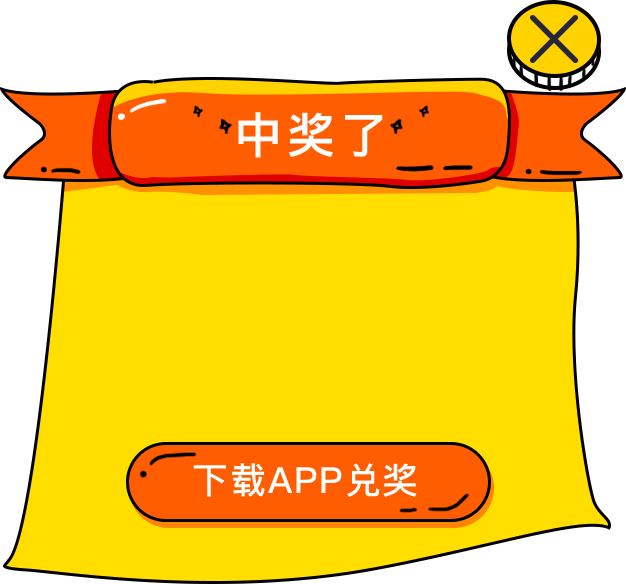
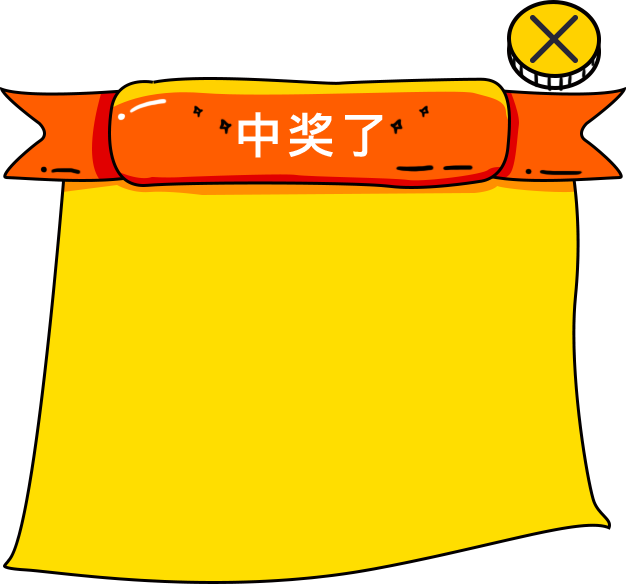
文案变更、按钮根据来源展示、title、字体设置

Changed region(s): [[0.1821, 0.7397, 0.7891, 0.9247]]

diff --git a/assets/activity/lechun/lottery.html b/assets/activity/lechun/lottery.html
@@ -3,7 +3,7 @@
 <head>
   <meta charset="UTF-8">
   <meta name="viewport" content="width=device-width,user-scalable=no">
-  <title></title>
+  <title>亚程旅游任性送</title>
   <link rel="stylesheet" href="./less/lottery.css">
 </head>
 <body module-css-reset module-css-base>
@@ -13,7 +13,7 @@
   <p class="tips">恭喜你！<br>获得：&nbsp;<span class="prize_tips"></span></p>
   <p class="code">兑奖码：&nbsp;<span class="prize_code"></span></p>
   <p class="tips2">请牢记兑奖码才能成功领取奖品哦！</p>
-  <button class="download"></button>
+  <div class="download"></div>
 </div>
 <img class="background" src="./img/background.jpg" alt="">
 <div class="button_area">
@@ -46,17 +46,18 @@
   </div>
 </div>
 <div id="activityRule" class="activity_rule">
-  <p>活动区域：全国</p>
-  <p>活动时间：2016.08.08－ 2016.08.11</p>
-  <p>领取方法：点击老虎机游戏按钮，摇中滚动中的图标，记录下中奖后生成的领取码。然后下载亚程旅游APP，打开APP在弹出的自动提示窗口中输入领取人信息和验证码。</p>
-  <p>兑奖方式：小亚毛绒玩具、乐纯整箱酸奶将以快递的方式寄出；乐纯酸奶礼包券领取后可在“乐纯的伙伴们”酸奶微信公众号购买时直接使用。</p>
-  <p>关注微信公共平台：亚程旅游 ID：atrip</p>
-  <p>小亚客服微信ID：yanfei</p>
-  <p>温馨提示：</p>
-  <p>1、如果您半个小时内未提交领取信息，将视为自动放弃本次领取资格。</p>
-  <p>2、同一部手机和手机号码只能领取一份奖品。</p>
-  <p>3、本活动结束后7个工作日内，将陆续安排发放。</p>
-  <p>4、本次活动不收取任何费用。</p>
+  <p><strong>活动区域：</strong>全国</p>
+  <p><strong>活动时间：</strong>2016.08.08 － 2016.08.10</p>
+  <p><strong>领取方法：</strong>参与老虎机游戏，获取奖品兑奖码。下载亚程旅游APP并启动，在弹出的兑换奖品的窗口中输入奖品兑奖码和兑奖人信息；</p>
+  <p><strong>奖品设置：</strong>新加坡金沙酒店3晚住宿、微信红包、小亚毛绒玩具、乐纯酸奶1箱、乐纯酸奶代金券；</p>
+  <p><strong>兑奖方式：</strong>新加坡金沙酒店3晚住宿，亚程客服将线下联系您安排入住；微信红包，下载亚程app，短信获取红包兑奖码，关注“亚程旅游”微信公众号并输入微信红包兑奖码，小亚就会给您送出红包；小亚毛绒玩具、乐纯酸奶（箱）将以快递的方式寄出；乐纯酸奶代金券以短信方式下发，领取后可在“乐纯的伙伴们”微信公众号直接使用。</p>
+  <p><strong>关注微信公共平台：</strong>亚程旅游</p>
+  <p><strong>温馨提示：</strong></p>
+  <p>1、请您中奖后尽快完成奖品兑换。由于参与活动用户较多，奖品数量有限，亚程不保证您最终可以获得相应奖品；</p>
+  <p>2、新下载注册用户，可参加活动。老用户不再参加此活动；</p>
+  <p>3、同一部手机和同一个手机号码只能领取一份奖品；</p>
+  <p>4、本活动结束后7个工作日内，将陆续安排奖品的发放；</p>
+  <p>5、本次活动不收取任何费用。</p>
 </div>
 <script src="../js/jquery/jquery.min.js"></script>
 <script src="../js/vlm.js"></script>
@@ -244,9 +245,22 @@
     var $alert = $('.alert');
     var $mask = $('.mask');
     var Alert = function (options) {
+      this.origin = this.initDownloadBtn();
       this.initTips(options);
       this.bindEvent();
       return this;
+    };
+    Alert.prototype.initDownloadBtn = function () {
+      var queryStringArgs = getQueryStringArgs();
+
+      // 根据页面来源
+      if (queryStringArgs.origin === 'app') {
+        $('.alert .download').text('去兑换');
+        return 'origin=app'
+      } else {
+        $('.alert .download').text('下载APP兑奖')
+        return 'origin=browser'
+      }
     };
     Alert.prototype.initTips = function (options) {
       var prizeTips = options.prizeTips;
@@ -260,10 +274,14 @@
         _this.close();
       });
       $alert.find('.download').on('click', function () {
-        if (userAgent.isAndroid) {
-          location.href = 'http://url.cn/27QotxC';
-        } else if (userAgent.isIOS) {
-          location.href = 'http://m.yazhoulvyou.cn/';
+        if (_this.origin === 'origin=app') {
+          history.back();
+        } else {
+          if (userAgent.isAndroid) {
+            location.href = 'http://url.cn/27QotxC';
+          } else if (userAgent.isIOS) {
+            location.href = 'http://m.yazhoulvyou.cn/';
+          }
         }
       });
     }
@@ -363,6 +381,26 @@
     });
 
     return element;
+  }
+
+  function getQueryStringArgs () {
+    var qs = (location.search.length > 0 ? location.search.substring(1) : ""),
+            args = {},
+            items = qs.length ? qs.split("&") : [],
+            item = null,
+            name = null,
+            value = null,
+            i,
+            len = items.length;
+    for (i = 0; i < len; i++) {
+      item = items[i].split("=");
+      name = decodeURIComponent(item[0]);
+      value = decodeURIComponent(item[1]);
+      if (name.length) {
+        args[name] = value;
+      }
+    }
+    return args;
   }
 
 </script>

diff --git a/assets/activity/lechun/less/lottery.css b/assets/activity/lechun/less/lottery.css
@@ -378,7 +378,7 @@ html {
   box-sizing: inherit;
 }
 body {
-  font-family: MicrosoftYaHei, '微软雅黑', Arial, Tahoma, Helvetica, Georgia, Sans-serif, 'STXihei', '华文黑体', Hei, 'Hiragino Kaku Gothic Pro', SimSun;
+  font-family: Tahoma, Arial, Roboto, "Droid Sans", "Helvetica Neue", "Droid Sans Fallback", "Heiti SC", sans-serif;
 }
 ::-webkit-input-placeholder {
   opacity: 1;
@@ -619,6 +619,15 @@ img {
   left: 1.26rem;
   width: 3.68rem;
   height: 0.86rem;
+  line-height: 0.74rem;
+  font-size: 0.34rem;
+  color: #fff;
+  text-align: center;
+  background-color: transparent;
+  background-image: url(../img/lottery_button.png);
+  -webkit-background-size: contain;
+  -moz-background-size: contain;
+  background-size: contain;
 }
 .background {
   width: 100%;
@@ -765,7 +774,7 @@ img {
   -o-transform: translateX(-50%);
   transform: translateX(-50%);
   top: 12.1rem;
-  width: 1.3rem;
+  white-space: nowrap;
   font-size: 0.28rem;
   letter-spacing: 2px;
   color: #269bff;

diff --git a/assets/activity/less/module/_module_global.less b/assets/activity/less/module/_module_global.less
@@ -3,23 +3,25 @@
  */
 
 html {
-    -webkit-box-sizing: border-box;
-    -moz-box-sizing: border-box;
-    box-sizing: border-box;
+  -webkit-box-sizing: border-box;
+  -moz-box-sizing: border-box;
+  box-sizing: border-box;
 }
+
 *, *:before, *:after {
-    box-sizing: inherit;
-}
-body{
-    font-family:  MicrosoftYaHei,'微软雅黑',Arial,Tahoma,Helvetica,Georgia,Sans-serif,'STXihei','华文黑体',Hei,'Hiragino Kaku Gothic Pro',SimSun;
+  box-sizing: inherit;
 }
 
-::-webkit-input-placeholder{
-    // opacity:0.54 Firefox
-    // IE、Chrome opacity:1
-    opacity: 1;
+body {
+  font-family: Tahoma, Arial, Roboto, "Droid Sans", "Helvetica Neue", "Droid Sans Fallback", "Heiti SC", sans-serif;
 }
 
-img{
+::-webkit-input-placeholder {
+  // opacity:0.54 Firefox
+  // IE、Chrome opacity:1
+  opacity: 1;
+}
+
+img {
   vertical-align: top;
 }

diff --git a/assets/activity/lechun/register.html b/assets/activity/lechun/register.html
@@ -13,7 +13,7 @@
   <meta name="apple-mobile-web-app-status-bar-style" content="green">
   <meta name="Keywords" content="亚程旅行网">
   <meta name="Description" content="境外专业旅行服务提供机构">
-  <title>兑奖页面</title>
+  <title>亚程旅游任性送兑奖</title>
   <link href="less/register.css" rel="stylesheet" type="text/css"/>
   <script>
 //    function registerLog(obj){
@@ -70,7 +70,7 @@
   <ul class="register_ul list">
     <li class="item">还没有参加摇奖活动?</li>
     <li class="item">
-      <a class="lotterylink" href="lottery.html">参加活动</a>
+      <a class="lotterylink" href="lottery.html?origin=app">参加活动</a>
     </li>
   </ul>
   <img src="img/lechun_register_bg.jpg" class="register_img">

diff --git a/assets/activity/lechun/less/lottery.less b/assets/activity/lechun/less/lottery.less
@@ -57,6 +57,13 @@
     left: 1.26rem;
     width: 3.68rem;
     height: 0.86rem;
+    line-height: 0.74rem;
+    font-size: 0.34rem;
+    color: #fff;
+    text-align: center;
+    background-color: transparent;
+    background-image: url(../img/lottery_button.png);
+    .background-size(contain);
   }
 }
 
@@ -164,7 +171,7 @@
     left: 50%;
     .transform(translateX(-50%));
     top: 12.1rem;
-    width: 1.3rem;
+    white-space: nowrap;
     font-size: 0.28rem;
     letter-spacing: 2px;
     color: #269bff;
